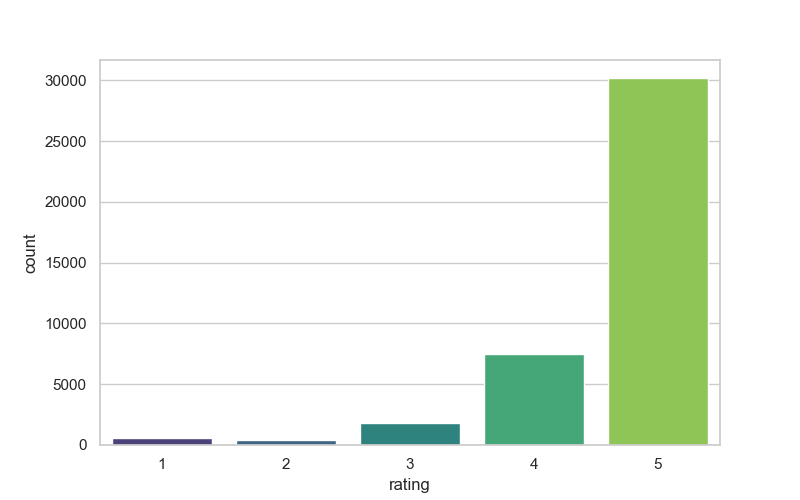
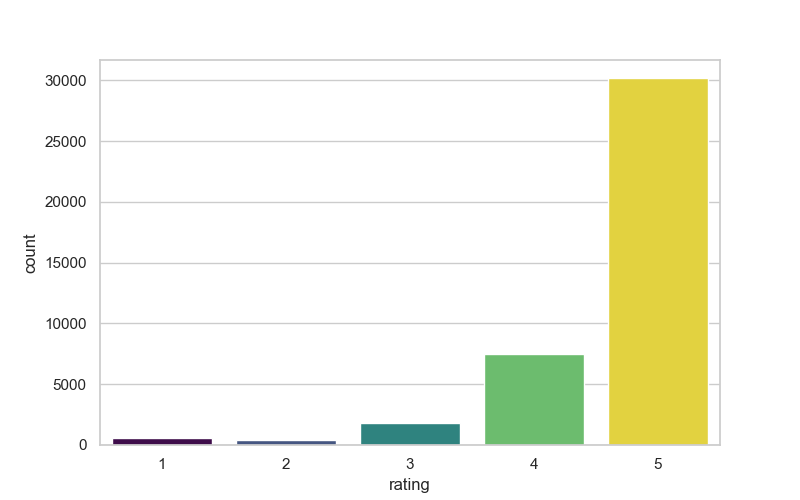
update code

Changed region(s): [[0.5938, 0.15, 0.9062, 0.9], [0.125, 0.87, 0.2812, 0.9]]

diff --git a/app.py b/app.py
@@ -1,4 +1,5 @@
 import pandas as pd
+import numpy as np
 import re
 import os
 import matplotlib.pyplot as plt
@@ -8,7 +9,7 @@ from sklearn.feature_extraction.text import TfidfVectorizer, CountVectorizer
 from sklearn.linear_model import LogisticRegression
 from sklearn.naive_bayes import MultinomialNB
 from sklearn.ensemble import RandomForestClassifier
-from sklearn.metrics import classification_report, f1_score, accuracy_score
+from sklearn.metrics import classification_report, f1_score, accuracy_score, confusion_matrix, roc_curve, auc
 from sklearn.decomposition import LatentDirichletAllocation
 from sklearn.preprocessing import MinMaxScaler
 
@@ -46,14 +47,14 @@ df['review_length'] = df['text'].astype(str).apply(len)
 
 sns.set_theme(style="whitegrid")
 plt.figure(figsize=(8, 5))
-sns.countplot(data=df, x='rating', palette='viridis')
+sns.countplot(data=df, x='rating', palette='viridis', hue='rating', legend=False)
 plt.savefig('rating_distribution.png')
 plt.clf()
 
 cat_counts = df['category'].value_counts().reset_index()
 cat_counts.columns = ['category', 'count']
 plt.figure(figsize=(10, 5))
-sns.barplot(data=cat_counts, x='count', y='category', palette='magma')
+sns.barplot(data=cat_counts, x='count', y='category', palette='magma', hue='category', legend=False)
 plt.savefig('category_distribution.png')
 plt.clf()
 
@@ -84,9 +85,89 @@ for name, model in models.items():
     print(f"Training {name}...")
     model.fit(X_train_tfidf, y_train)
     y_pred = model.predict(X_test_tfidf)
+    
+    # Get overall accuracy
     acc = accuracy_score(y_test, y_pred)
-    f1_neg = f1_score(y_test, y_pred, pos_label=0)
-    bake_off_results.append({"Model": name, "Accuracy": acc, "F1_Negative": f1_neg})
+    
+    # Generate the classification report as a dictionary so we can extract exact numbers
+    report = classification_report(y_test, y_pred, output_dict=True)
+    
+    # Append the highly detailed metrics to our results list
+    bake_off_results.append({
+        "Model": name, 
+        "Overall_Accuracy": acc, 
+        "Negative_Precision": report['0']['precision'],
+        "Negative_Recall": report['0']['recall'],
+        "Negative_F1": report['0']['f1-score'],
+        "Positive_Precision": report['1']['precision'],
+        "Positive_Recall": report['1']['recall'],
+        "Positive_F1": report['1']['f1-score']
+    })
+
+# ==========================================
+# --- PHASE 2.5: DEEP DIVE MODEL EVALUATION ---
+# ==========================================
+print("\n--- STARTING PHASE 2.5: DETAILED MODEL EVALUATION ---")
+if not os.path.exists('outputs'):
+    os.makedirs('outputs')
+
+# 1. Isolate the winning model
+best_model = models["Logistic_Regression"] 
+
+# Get standard predictions and probability scores
+y_pred_best = best_model.predict(X_test_tfidf)
+y_prob_best = best_model.predict_proba(X_test_tfidf)[:, 1]
+
+# --- CHART A: Confusion Matrix ---
+cm = confusion_matrix(y_test, y_pred_best)
+plt.figure(figsize=(6, 5))
+sns.heatmap(cm, annot=True, fmt='d', cmap='Blues', 
+            xticklabels=['Negative (0)', 'Positive (1)'], 
+            yticklabels=['Negative (0)', 'Positive (1)'])
+plt.ylabel('Actual Sentiment (Truth)')
+plt.xlabel('Predicted Sentiment (AI Guess)')
+plt.title('Confusion Matrix: Where does the AI make mistakes?')
+plt.tight_layout()
+plt.savefig('outputs/model_confusion_matrix.png')
+plt.clf()
+
+# --- CHART B: ROC Curve & AUC ---
+fpr, tpr, thresholds = roc_curve(y_test, y_prob_best)
+roc_auc = auc(fpr, tpr)
+
+plt.figure(figsize=(6, 5))
+plt.plot(fpr, tpr, color='darkorange', lw=2, label=f'ROC Curve (AUC = {roc_auc:.2f})')
+plt.plot([0, 1], [0, 1], color='navy', lw=2, linestyle='--')
+plt.xlim([0.0, 1.0])
+plt.ylim([0.0, 1.05])
+plt.xlabel('False Positive Rate')
+plt.ylabel('True Positive Rate')
+plt.title('ROC Curve: Model Confidence')
+plt.legend(loc="lower right")
+plt.tight_layout()
+plt.savefig('outputs/model_roc_curve.png')
+plt.clf()
+
+# --- CHART C: Feature Importance (Explainable AI) ---
+feature_names_tfidf = tfidf.get_feature_names_out()
+coefficients = best_model.coef_[0]
+
+importance_df = pd.DataFrame({'Word': feature_names_tfidf, 'Weight': coefficients})
+
+top_positive = importance_df.sort_values(by='Weight', ascending=False).head(10)
+top_negative = importance_df.sort_values(by='Weight', ascending=True).head(10)
+
+top_features = pd.concat([top_positive, top_negative]).sort_values(by='Weight')
+
+plt.figure(figsize=(10, 8))
+colors = ['#e74c3c' if x < 0 else '#2ecc71' for x in top_features['Weight']]
+sns.barplot(x='Weight', y='Word', data=top_features, palette=colors, hue='Word', legend=False)
+plt.title('Model Explainability: Words Driving Sentiment Predictions')
+plt.xlabel('Mathematical Weight (Negative = Churn Risk, Positive = Happy)')
+plt.ylabel('TF-IDF Keyword')
+plt.tight_layout()
+plt.savefig('outputs/model_feature_importance.png')
+plt.clf()
 
 
 # ==========================================
@@ -120,14 +201,12 @@ seller_stats['seller_score'] = (seller_stats['norm_rating'] * 0.7) + (seller_sta
 
 # --- EXPORT ---
 
-if not os.path.exists('outputs'):
-    os.makedirs('outputs')
-
 # 1. Export Cleaned Data
 df.to_csv('outputs/cleaned_reviews.csv', index=False)
 
 # 2. Export Model Performance
-pd.DataFrame(bake_off_results).to_csv('outputs/model_performance.csv', index=False)
+# 2. Export Detailed Model Performance
+pd.DataFrame(bake_off_results).to_csv('outputs/detailed_model_performance.csv', index=False)
 
 # 3. Export Churn Drivers
 pd.DataFrame(topic_results).to_csv('outputs/churn_drivers.csv', index=False)
@@ -135,13 +214,11 @@ pd.DataFrame(topic_results).to_csv('outputs/churn_drivers.csv', index=False)
 # 4. Export Seller Rankings
 seller_stats.sort_values(by='seller_score', ascending=False).to_csv('outputs/seller_rankings.csv', index=False)
 
+
 # ==========================================
 # --- PHASE 6: EXHAUSTIVE VISUALIZATION EXPORT ---
 # ==========================================
 print("\n--- STARTING PHASE 6: EXPORTING ARTIFACTS & VISUAL REPORTS ---")
-import os
-if not os.path.exists('outputs'):
-    os.makedirs('outputs')
 
 # --- 1. Export Raw CSV Artifacts ---
 df.to_csv('outputs/cleaned_reviews.csv', index=False)
@@ -157,7 +234,6 @@ def save_plot(filename):
     plt.clf()
 
 # --- CHART 1 & 2: Top & Worst Products (Things) ---
-# Note: If your CSV doesn't have a 'product_name' column, we safely fall back to 'shop_id'
 item_col = 'product_name' if 'product_name' in df.columns else 'shop_id' 
 item_sales = df.groupby(item_col)['sold'].sum().sort_values(ascending=False)
 
@@ -169,7 +245,6 @@ plt.xlabel('Total Units Sold')
 save_plot('1_top_sales_things.png')
 
 plt.figure(figsize=(10, 6))
-# We filter > 0 to find items that actually have real but poor sales, ignoring dead listings
 worst_items = item_sales[item_sales > 0].tail(10) 
 sns.barplot(x=worst_items.values, y=worst_items.index.astype(str), hue=worst_items.index.astype(str), palette='Reds_r', legend=False)
 plt.title('2. Bottom 10 Worst-Selling Items (Non-Zero)')
@@ -210,7 +285,6 @@ save_plot('7_most_used_words.png')
 
 # --- CHART 8: Sentiment Distribution ---
 plt.figure(figsize=(6, 6))
-# Using 'explode' to visually separate the negative reviews slice
 plt.pie(df_binary['sentiment'].value_counts(), labels=['Positive (4-5 Stars)', 'Negative (1-2 Stars)'], 
         autopct='%1.1f%%', colors=['#2ecc71', '#e74c3c'], startangle=90, explode=(0, 0.1))
 plt.title('8. Platform Sentiment Distribution')
@@ -219,7 +293,6 @@ save_plot('8_sentiment_distribution.png')
 
 # --- CHART 9 (DATA SCIENCE BONUS): Sentiment Health by Category ---
 plt.figure(figsize=(12, 6))
-# This calculates the percentage of positive reviews per category
 sentiment_cat = df_binary.groupby('category')['sentiment'].mean().sort_values() * 100
 sns.barplot(x=sentiment_cat.values, y=sentiment_cat.index.astype(str), hue=sentiment_cat.index.astype(str), palette='RdYlGn', legend=False)
 plt.title('9. Sentiment Health: % of Positive Reviews by Category')
@@ -227,4 +300,4 @@ plt.xlabel('Percentage of Positive Reviews (%)')
 plt.xlim(0, 100)
 save_plot('9_sentiment_by_category.png')
 
-print("Success! All 9 visualizations have been exported to the 'outputs' folder.")
+print("Success! All visualizations have been exported to the 'outputs' folder.")
